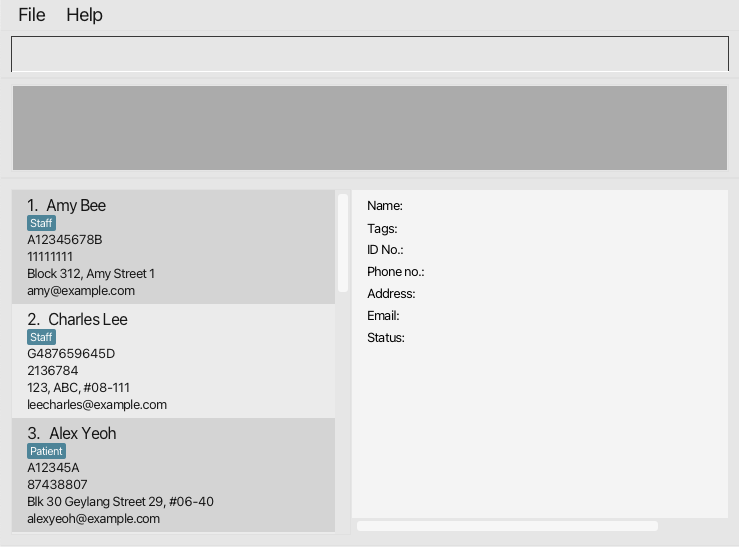
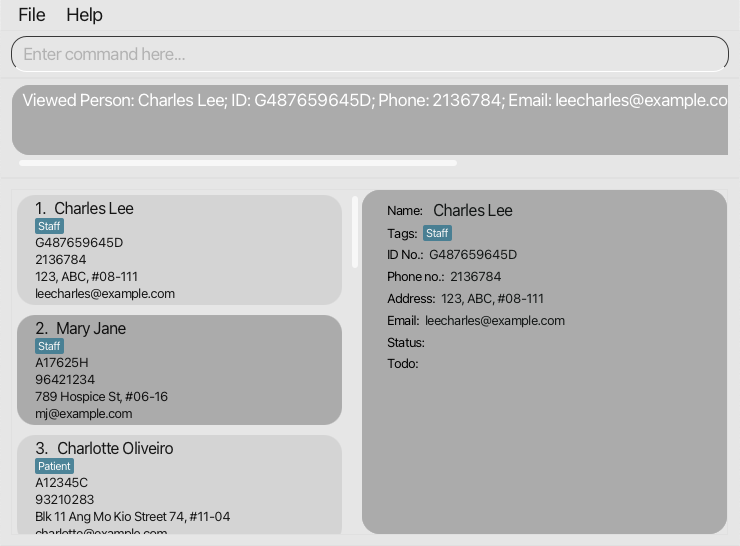
Make Ui edges round.

diff --git a/src/main/resources/view/PatientistTheme.css b/src/main/resources/view/PatientistTheme.css
@@ -96,24 +96,38 @@
 .list-cell {
     -fx-label-padding: 0 0 0 0;
     -fx-graphic-text-gap : 0;
-    -fx-padding: 0 0 0 0;
+    -fx-margin: 5 5 5 5;
+    -fx-background-radius: 18 18 18 18;
+    -fx-background-insets: 5, 5 ;
+
 }
 
 .list-cell:filled:even {
     -fx-background-color: #d4d4d4;
+    -fx-margin: 5 5 5 5;
+    -fx-background-radius: 18 18 18 18;
+    -fx-background-insets: 5, 5 ;
+
 }
 
 .list-cell:filled:odd {
-    -fx-background-color: #ebebeb;
+    -fx-background-color: #ababab;
+    -fx-margin: 5 5 5 5;
+    -fx-background-radius: 18 18 18 18;
+    -fx-background-insets: 5, 5 ;
+
 }
 
 .list-cell:filled:selected {
     -fx-background-color: #a7ccd9;
+    -fx-margin: 5 5 5 5;
+    -fx-background-radius: 18 18 18 18;
+    -fx-background-insets: 5, 5 ;
 }
 
 .list-cell:filled:selected #cardPane {
-    -fx-border-color: #2e7087;
-    -fx-border-width: 1;
+    -fx-background-radius: 18 18 18 18;
+    -fx-background-insets: 5, 5 ;
 }
 
 .list-cell .label {
@@ -282,12 +296,12 @@
 }
 
 .scroll-bar {
-    -fx-background-color: derive(#dbdbdb, 20%);
+    -fx-background-color: transparent;
 }
 
 .scroll-bar .thumb {
     -fx-background-color: derive(#dbdbdb, 50%);
-    -fx-background-insets: 3;
+    -fx-background-insets: 5;
 }
 
 .scroll-bar .increment-button, .scroll-bar .decrement-button {
@@ -334,7 +348,7 @@
 
 #resultDisplay .content {
     -fx-background-color: transparent, #ababab, transparent, #ababab;
-    -fx-background-radius: 0;
+    -fx-background-radius: 18 18 18 18;
 }
 
 #tags {
@@ -356,3 +370,18 @@
     -fx-font-size: 13px;
     -fx-text-fill: #010504;
 }
+
+.details {
+   -fx-background-color: transparent, #ababab, transparent, #ababab;
+   -fx-background-radius: 18 18 18 18;}
+
+.scroll-pane > .viewport {
+   -fx-background-color: transparent
+}
+
+.text-field {
+     -fx-background-color: transparent, #ababab, transparent, #ababab;
+     -fx-background-radius: 15;
+     -fx-border-radius: 15;
+     -fx-border-color: transparent;
+ }

diff --git a/src/main/java/seedu/patientist/ui/DetailsPopup.java b/src/main/java/seedu/patientist/ui/DetailsPopup.java
@@ -6,15 +6,20 @@ import java.util.logging.Logger;
 
 import javafx.fxml.FXML;
 import javafx.scene.control.Label;
+import javafx.scene.layout.Background;
+import javafx.scene.layout.BackgroundFill;
 import javafx.scene.layout.FlowPane;
 import javafx.scene.layout.HBox;
 import javafx.scene.layout.Region;
 import javafx.scene.layout.VBox;
+import javafx.scene.paint.Color;
 import seedu.patientist.commons.core.LogsCenter;
 import seedu.patientist.model.person.Person;
 import seedu.patientist.model.person.patient.Patient;
 import seedu.patientist.model.person.patient.PatientStatusDetails;
 import seedu.patientist.model.person.patient.PatientToDo;
+
+import static java.util.Objects.requireNonNull;
 
 
 /**
@@ -33,7 +38,7 @@ public class DetailsPopup extends UiPart<Region> {
      * @see <a href="https://github.com/se-edu/addressbook-level4/issues/336">The issue on Patientist level 4</a>
      */
 
-    public final Person person;
+    public Person person;
 
     @FXML
     private HBox detailsPane;

diff --git a/src/main/java/seedu/patientist/ui/MainWindow.java b/src/main/java/seedu/patientist/ui/MainWindow.java
@@ -34,7 +34,7 @@ public class MainWindow extends UiPart<Stage> {
     // Independent Ui parts residing in this Ui container
     private PersonListPanel personListPanel;
 
-    private DetailsPopup detailsPopup;
+    private DetailsPopup detailsPopup = new DetailsPopup(null);;
     private Person personToView;
     private ResultDisplay resultDisplay;
     private HelpWindow helpWindow;
@@ -158,7 +158,7 @@ public class MainWindow extends UiPart<Stage> {
     public void handleDetails(int index) {
         personToView = logic.getFilteredPersonList().get(index);
         detailsPopup = new DetailsPopup(personToView);
-        detailsPopupPlaceholder.getChildren().add(detailsPopup.getRoot());
+        detailsPopupPlaceholder.getChildren().setAll(detailsPopup.getRoot());
     }
 
     /**

diff --git a/src/main/java/seedu/patientist/ui/PersonCard.java b/src/main/java/seedu/patientist/ui/PersonCard.java
@@ -3,10 +3,15 @@ package seedu.patientist.ui;
 import java.util.Comparator;
 
 import javafx.fxml.FXML;
+import javafx.geometry.Insets;
 import javafx.scene.control.Label;
+import javafx.scene.layout.Background;
+import javafx.scene.layout.BackgroundFill;
+import javafx.scene.layout.CornerRadii;
 import javafx.scene.layout.FlowPane;
 import javafx.scene.layout.HBox;
 import javafx.scene.layout.Region;
+import javafx.scene.paint.Color;
 import seedu.patientist.model.person.Person;
 
 /**
@@ -48,6 +53,7 @@ public class PersonCard extends UiPart<Region> {
      */
     public PersonCard(Person person, int displayedIndex) {
         super(FXML);
+
         this.person = person;
         id.setText(displayedIndex + ". ");
         name.setText(person.getName().fullName);
